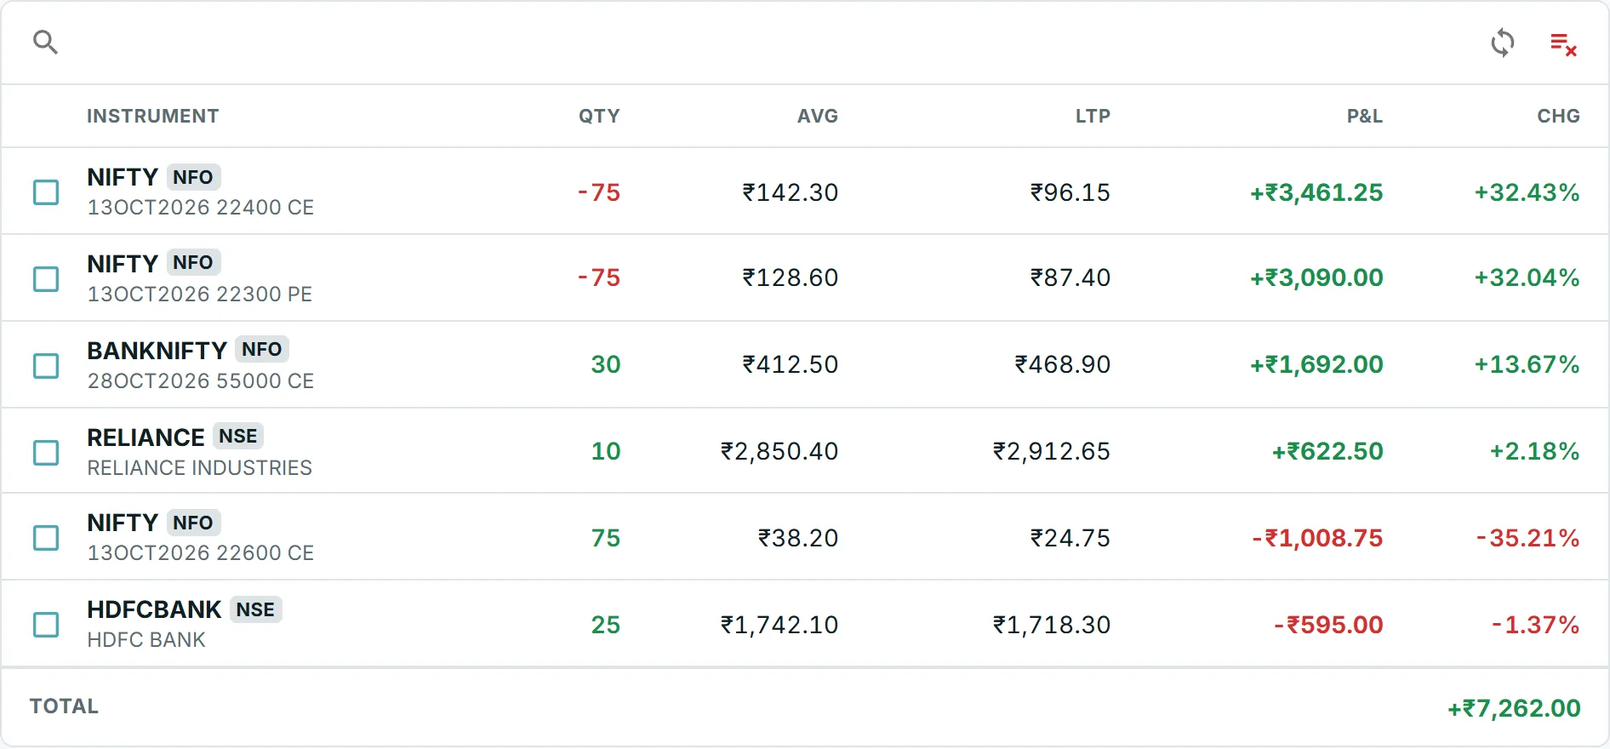
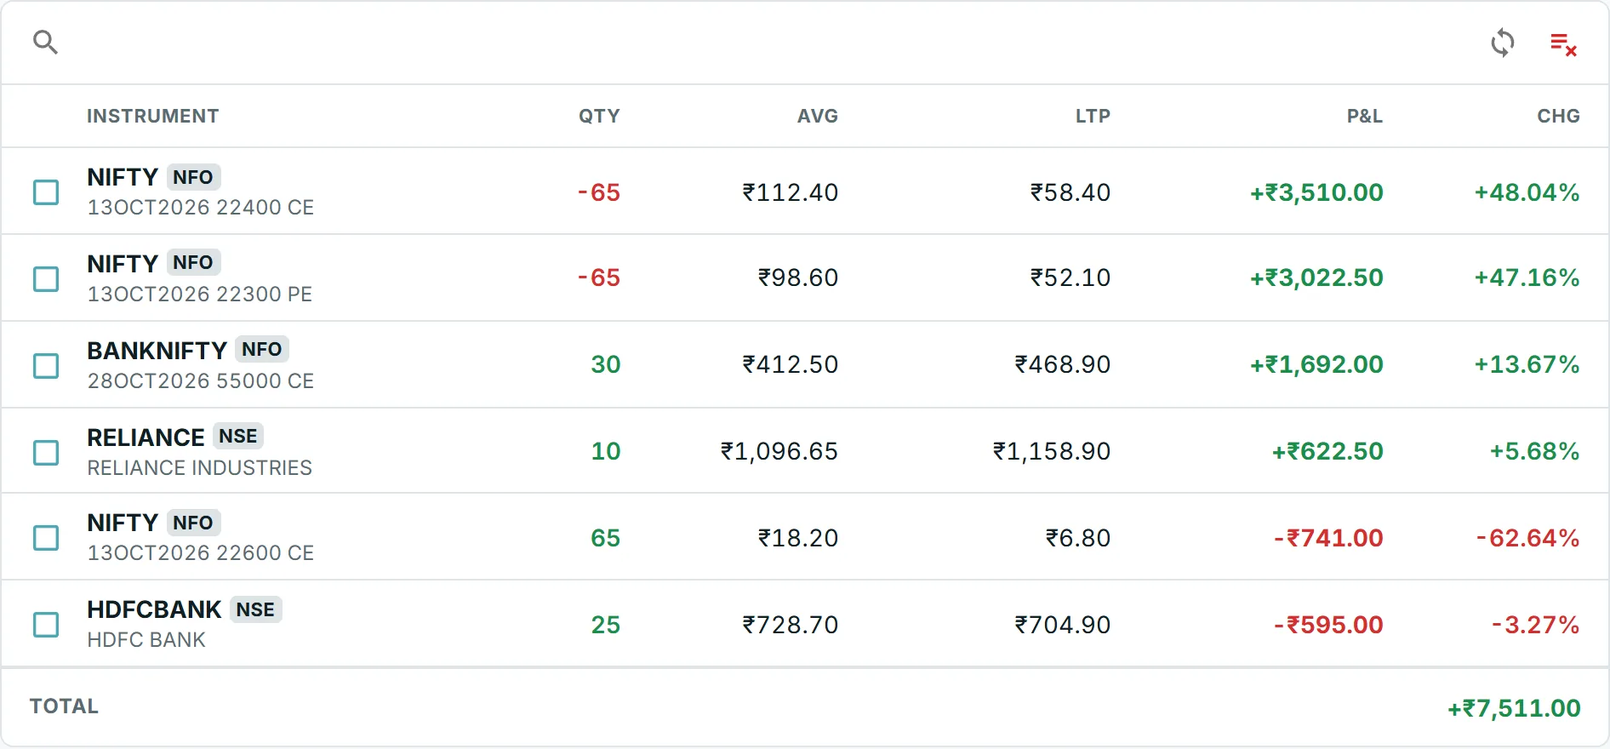
Performance pass for low-end mobiles; fix screenshot inconsistencies
Performance:
- Responsive images (1440w + 2880w srcset), async decoding, lazy loading
  for everything below the hero; desktop-only frames never load on phones
- Pulse ring and tab progress animate transform/opacity instead of
  box-shadow/width; marquee pauses off-screen; no nav backdrop blur on
  phones/tablets; hero tilt writes only when its value changes
- YouTube thumbnails fetched only near the videos section; trim unused
  font weights; lightbox reuses the already-loaded image size

Screenshot audit fixes:
- Positions use NIFTY lots of 65 and prices consistent with the watchlist
  and option chain (total +7,511)
- Terminal history strikes near the money; option chain day change -0.70%
- Strategy renamed to match its NIFTY instrument; report badge green
- P&L statement prices rescaled to current levels (same qty and P&L);
  info banners hidden on P&L pages
- Internal developer note removed from trending OI
- Charts shown without the live watchlist next to September candles

diff --git a/index.html b/index.html
@@ -8,7 +8,7 @@
   <link rel="icon" type="image/png" href="assets/favicon.png">
   <link rel="preconnect" href="https://fonts.googleapis.com">
   <link rel="preconnect" href="https://fonts.gstatic.com" crossorigin>
-  <link href="https://fonts.googleapis.com/css2?family=IBM+Plex+Sans:wght@400;500;600&family=Schibsted+Grotesk:wght@500;600;700;800;900&display=swap" rel="stylesheet">
+  <link href="https://fonts.googleapis.com/css2?family=IBM+Plex+Sans:wght@400;500;600&family=Schibsted+Grotesk:wght@700;800&display=swap" rel="stylesheet">
   <style>
     :root {
       --ink: #0b2428;
@@ -95,10 +95,11 @@
 
     .pin { position: absolute; z-index: 3; display: flex; align-items: center; gap: 10px; opacity: 0; animation: fade .6s 2.1s forwards; }
     .pin + .pin { animation-delay: 2.4s; }
-    .pin i { width: 14px; height: 14px; border-radius: 50%; background: var(--mint); box-shadow: 0 0 0 6px rgba(143, 224, 210, .3); flex: none; animation: pulse 2.4s 3s infinite; }
+    .pin i { position: relative; width: 14px; height: 14px; border-radius: 50%; background: var(--mint); box-shadow: 0 0 0 6px rgba(143, 224, 210, .3); flex: none; }
+    .pin i::after { content: ''; position: absolute; inset: 0; border-radius: 50%; background: rgba(143, 224, 210, .55); animation: pulse 2.4s 3s infinite; }
     .pin span { padding: 8px 14px; border-radius: 10px; background: var(--ink); color: var(--on-ink); font-size: .9rem; line-height: 1.35; box-shadow: 0 10px 30px -10px rgba(0, 0, 0, .5); max-width: 24ch; }
     .pin span b { color: var(--mint); font-weight: 600; display: block; }
-    @keyframes pulse { 50% { box-shadow: 0 0 0 12px rgba(143, 224, 210, 0); } }
+    @keyframes pulse { to { transform: scale(2.6); opacity: 0; } }
 
     .hero-fade { height: 140px; background: linear-gradient(transparent, var(--paper)); margin-top: -140px; position: relative; z-index: 4; pointer-events: none; }
 
@@ -114,6 +115,7 @@
     .brokers { padding: 36px 0 8px; }
     .brokers p { text-align: center; color: var(--text-soft); font-weight: 500; }
     .marquee { margin-top: 18px; overflow: hidden; mask-image: linear-gradient(90deg, transparent, #000 12%, #000 88%, transparent); }
+    .marquee.off ul { animation-play-state: paused; }
     .marquee ul { display: flex; gap: clamp(40px, 5vw, 80px); width: max-content; list-style: none; margin: 0; padding: 0 36px; animation: slide 36s linear infinite; }
     .marquee li { display: flex; align-items: center; gap: 14px; font: 700 clamp(1.25rem, 1.8vw, 1.7rem)/1 var(--display); letter-spacing: -0.02em; color: var(--text); white-space: nowrap; }
     .marquee li img { width: clamp(36px, 3vw, 46px); height: auto; object-fit: contain; }
@@ -156,11 +158,11 @@
     .tab { all: unset; cursor: pointer; padding: 18px 4px 0; position: relative; }
     .tab::before, .tab::after { content: ''; position: absolute; left: 0; top: 0; height: 3px; border-radius: 3px; }
     .tab::before { right: 0; background: var(--line); }
-    .tab::after { width: 0; background: var(--teal); }
+    .tab::after { right: 0; background: var(--teal); transform: scaleX(0); transform-origin: left; }
     .tab[aria-selected="true"]::after { animation: progress 7s linear forwards; }
     .tabs.paused .tab[aria-selected="true"]::after { animation-play-state: paused; }
-    .tabs.manual .tab[aria-selected="true"]::after { animation: none; width: 100%; }
-    @keyframes progress { to { width: 100%; } }
+    .tabs.manual .tab[aria-selected="true"]::after { animation: none; transform: none; }
+    @keyframes progress { to { transform: scaleX(1); } }
     .tab strong { display: block; font: 700 clamp(1.05rem, 1.4vw, 1.35rem) var(--display); color: var(--text-soft); transition: color .2s; }
     .tab small { display: block; color: var(--text-soft); font-size: .9rem; margin-top: 2px; }
     .tab[aria-selected="true"] strong, .tab:hover strong { color: var(--text); }
@@ -268,6 +270,9 @@
       .foot .about { grid-column: 1 / -1; }
     }
     @media (max-width: 900px) {
+      .nav.dark, .nav.solid { backdrop-filter: none; }
+      .nav.dark { background: rgba(11, 36, 40, .97); }
+      .nav.solid { background: rgba(243, 246, 245, .98); }
       .nav-toggle { display: block; }
       .nav-links { display: none; position: absolute; top: 72px; left: 0; right: 0; flex-direction: column; gap: 0; background: var(--paper); color: var(--text); border-bottom: 1px solid var(--line); padding: 8px var(--gutter) 16px; }
       .nav-links a { padding: 12px 0; }
@@ -332,7 +337,7 @@
           <div class="stage-main">
             <figure class="shot">
               <figcaption>Studio · Strategy canvas</figcaption>
-              <button type="button" class="zoom"><img src="assets/screens/strategy-canvas.webp" width="2880" height="1800" fetchpriority="high" alt="Strategy canvas showing a NIFTY short straddle: sell ATM call and put, then exit on whichever comes first of a 15:20 time stop, a ₹4,000 loss stop or a ₹3,000 profit target."></button>
+              <button type="button" class="zoom"><img src="assets/screens/strategy-canvas.webp" srcset="assets/screens/strategy-canvas-1440.webp 1440w, assets/screens/strategy-canvas.webp 2880w" sizes="(max-width: 860px) 100vw, 84vw" decoding="async" width="2880" height="1800" fetchpriority="high" alt="Strategy canvas showing a NIFTY short straddle: sell ATM call and put, then exit on whichever comes first of a 15:20 time stop, a ₹4,000 loss stop or a ₹3,000 profit target."></button>
             </figure>
             <div class="pin" style="left: 46%; top: 27%;"><i></i><span><b>Entry</b>Sell the ATM call and put</span></div>
             <div class="pin" style="left: 72%; top: 58%;"><i></i><span><b>Exit</b>Whichever hits first: time, loss or profit</span></div>
@@ -340,11 +345,11 @@
 
           <figure class="float float-pos">
             <figcaption>Positions</figcaption>
-            <img src="assets/screens/crop-positions.webp" width="1892" height="880" alt="Six open positions totalling +₹7,262.">
+            <img src="assets/screens/crop-positions.webp" srcset="assets/screens/crop-positions-half.webp 946w, assets/screens/crop-positions.webp 1892w" sizes="(max-width: 860px) 1px, 34vw" decoding="async" loading="lazy" width="1892" height="880" alt="Six open positions totalling +₹7,511.">
           </figure>
           <figure class="float float-pnl">
             <figcaption>P&amp;L heatmap</figcaption>
-            <img src="assets/screens/crop-pnl.webp" width="2320" height="1060" alt="P&L summary with YTD P&L, best day, worst day and win rate, above a calendar of daily results.">
+            <img src="assets/screens/crop-pnl.webp" srcset="assets/screens/crop-pnl-half.webp 1160w, assets/screens/crop-pnl.webp 2320w" sizes="(max-width: 860px) 1px, 34vw" decoding="async" loading="lazy" width="2320" height="1060" alt="P&L summary with YTD P&L, best day, worst day and win rate, above a calendar of daily results.">
           </figure>
         </div>
       </div>
@@ -374,64 +379,64 @@
               <span class="chap"><b>1</b>Build</span>
               <h3>Draw the rules, not the code.</h3>
               <p>Lay out entries, exits and stops as blocks on a canvas. Combine conditions with AND, OR, ANY and IF branches, and attach actions to buy, sell, modify, square off or alert you.</p>
-              <figure class="shot beat-shot"><figcaption>Studio · Strategy canvas</figcaption><button type="button" class="zoom"><img src="assets/screens/strategy-canvas.webp" width="2880" height="1800" loading="lazy" alt="Strategy canvas with entry, exit and stop blocks."></button></figure>
+              <figure class="shot beat-shot"><figcaption>Studio · Strategy canvas</figcaption><button type="button" class="zoom"><img src="assets/screens/strategy-canvas.webp" srcset="assets/screens/strategy-canvas-1440.webp 1440w, assets/screens/strategy-canvas.webp 2880w" sizes="(max-width: 1080px) 100vw, 62vw" decoding="async" width="2880" height="1800" loading="lazy" alt="Strategy canvas with entry, exit and stop blocks."></button></figure>
             </article>
             <article class="beat" data-frame="1" data-chap="0">
               <span class="chap"><b>1</b>Build</span>
               <h3>Keep every idea, and every version.</h3>
               <p>Your strategy library holds drafts and finished work side by side. Each save is versioned, so you can compare and roll back.</p>
               <p class="note">When a strategy is ready, deploy it and DheQuest runs it live through your connected broker.</p>
-              <figure class="shot beat-shot"><figcaption>Studio · Strategies</figcaption><button type="button" class="zoom"><img src="assets/screens/strategies.webp" width="2880" height="1800" loading="lazy" alt="Strategy library listing five strategies."></button></figure>
+              <figure class="shot beat-shot"><figcaption>Studio · Strategies</figcaption><button type="button" class="zoom"><img src="assets/screens/strategies.webp" srcset="assets/screens/strategies-1440.webp 1440w, assets/screens/strategies.webp 2880w" sizes="(max-width: 1080px) 100vw, 62vw" decoding="async" width="2880" height="1800" loading="lazy" alt="Strategy library listing five strategies."></button></figure>
             </article>
             <article class="beat" data-frame="2" data-chap="1">
               <span class="chap"><b>2</b>Test</span>
               <h3>Replay any past session, bar by bar.</h3>
               <p>The time-travel simulator puts you back on a historical day with the chain and OI as they were, so you can practise the trade before the money is real.</p>
-              <figure class="shot beat-shot"><figcaption>Studio · Time-travel simulator</figcaption><button type="button" class="zoom"><img src="assets/screens/simulator.webp" width="2880" height="1800" loading="lazy" alt="Time-travel simulator replaying NIFTY on 17 Aug 2026 at 12:16, with OI by strike and the option chain."></button></figure>
+              <figure class="shot beat-shot"><figcaption>Studio · Time-travel simulator</figcaption><button type="button" class="zoom"><img src="assets/screens/simulator.webp" srcset="assets/screens/simulator-1440.webp 1440w, assets/screens/simulator.webp 2880w" sizes="(max-width: 1080px) 100vw, 62vw" decoding="async" width="2880" height="1800" loading="lazy" alt="Time-travel simulator replaying NIFTY on 17 Aug 2026 at 12:16, with OI by strike and the option chain."></button></figure>
             </article>
             <article class="beat" data-frame="3" data-chap="1">
               <span class="chap"><b>2</b>Test</span>
               <h3>Backtest across months in one run.</h3>
               <p>Every backtest becomes a report with entries, win rate and net P&amp;L, so you can compare versions of an idea on evidence.</p>
-              <figure class="shot beat-shot"><figcaption>Studio · Simulation reports</figcaption><button type="button" class="zoom"><img src="assets/screens/reports.webp" width="2880" height="1800" loading="lazy" alt="Simulation reports summary with simulated P&L and win rate."></button></figure>
+              <figure class="shot beat-shot"><figcaption>Studio · Simulation reports</figcaption><button type="button" class="zoom"><img src="assets/screens/reports.webp" srcset="assets/screens/reports-1440.webp 1440w, assets/screens/reports.webp 2880w" sizes="(max-width: 1080px) 100vw, 62vw" decoding="async" width="2880" height="1800" loading="lazy" alt="Simulation reports summary with simulated P&L and win rate."></button></figure>
             </article>
             <article class="beat" data-frame="4" data-chap="2">
               <span class="chap"><b>3</b>Trade</span>
               <h3>Start from a shape.</h3>
               <p>Pick a bullish, bearish or neutral structure and it's priced instantly from the live chain. Straddles, strangles, condors, butterflies and more.</p>
-              <figure class="shot beat-shot"><figcaption>Trade · Add strategy</figcaption><button type="button" class="zoom"><img src="assets/screens/terminal-strategy-picker.webp" width="2880" height="1800" loading="lazy" alt="Strategy picker with neutral shapes."></button></figure>
+              <figure class="shot beat-shot"><figcaption>Trade · Add strategy</figcaption><button type="button" class="zoom"><img src="assets/screens/terminal-strategy-picker.webp" srcset="assets/screens/terminal-strategy-picker-1440.webp 1440w, assets/screens/terminal-strategy-picker.webp 2880w" sizes="(max-width: 1080px) 100vw, 62vw" decoding="async" width="2880" height="1800" loading="lazy" alt="Strategy picker with neutral shapes."></button></figure>
             </article>
             <article class="beat" data-frame="5" data-chap="2">
               <span class="chap"><b>3</b>Trade</span>
               <h3>See the payoff before you place it.</h3>
               <p>Max profit, max loss, breakevens and probability of profit update as you change strikes, so there are no surprises at expiry.</p>
-              <figure class="shot beat-shot"><figcaption>Trade · Options terminal</figcaption><button type="button" class="zoom"><img src="assets/screens/terminal-payoff.webp" width="2880" height="1800" loading="lazy" alt="Options terminal with a short iron condor payoff graph over put and call open interest."></button></figure>
+              <figure class="shot beat-shot"><figcaption>Trade · Options terminal</figcaption><button type="button" class="zoom"><img src="assets/screens/terminal-payoff.webp" srcset="assets/screens/terminal-payoff-1440.webp 1440w, assets/screens/terminal-payoff.webp 2880w" sizes="(max-width: 1080px) 100vw, 62vw" decoding="async" width="2880" height="1800" loading="lazy" alt="Options terminal with a short iron condor payoff graph over put and call open interest."></button></figure>
             </article>
             <article class="beat" data-frame="6" data-chap="2">
               <span class="chap"><b>3</b>Trade</span>
               <h3>Fire a whole basket at once.</h3>
               <p>Save groups of orders as baskets and place them together, for yourself or for your team.</p>
-              <figure class="shot beat-shot"><figcaption>Trade · Baskets</figcaption><button type="button" class="zoom"><img src="assets/screens/baskets.webp" width="2880" height="1800" loading="lazy" alt="Baskets list of saved order groups."></button></figure>
+              <figure class="shot beat-shot"><figcaption>Trade · Baskets</figcaption><button type="button" class="zoom"><img src="assets/screens/baskets.webp" srcset="assets/screens/baskets-1440.webp 1440w, assets/screens/baskets.webp 2880w" sizes="(max-width: 1080px) 100vw, 62vw" decoding="async" width="2880" height="1800" loading="lazy" alt="Baskets list of saved order groups."></button></figure>
             </article>
             <article class="beat" data-frame="7" data-chap="2">
               <span class="chap"><b>3</b>Trade</span>
               <h3>Every position, one screen.</h3>
               <p>Live P&amp;L across every account you trade, with one-click square off when it's time to get out.</p>
-              <figure class="shot beat-shot"><figcaption>Trade · Positions</figcaption><button type="button" class="zoom"><img src="assets/screens/positions.webp" width="2880" height="1800" loading="lazy" alt="Positions table with six open positions totalling +₹7,262."></button></figure>
+              <figure class="shot beat-shot"><figcaption>Trade · Positions</figcaption><button type="button" class="zoom"><img src="assets/screens/positions.webp" srcset="assets/screens/positions-1440.webp 1440w, assets/screens/positions.webp 2880w" sizes="(max-width: 1080px) 100vw, 62vw" decoding="async" width="2880" height="1800" loading="lazy" alt="Positions table with six open positions totalling +₹7,511."></button></figure>
             </article>
           </div>
 
           <div class="screen" aria-hidden="true">
             <div class="chapters"><span class="on" style="--fill: 50%">1 · Build</span><span>2 · Test</span><span>3 · Trade</span></div>
             <div class="frames">
-              <figure class="shot on"><figcaption>Studio · Strategy canvas</figcaption><button type="button" class="zoom" tabindex="-1"><img src="assets/screens/strategy-canvas.webp" width="2880" height="1800" alt=""></button></figure>
-              <figure class="shot"><figcaption>Studio · Strategies</figcaption><button type="button" class="zoom" tabindex="-1"><img src="assets/screens/strategies.webp" width="2880" height="1800" alt=""></button></figure>
-              <figure class="shot"><figcaption>Studio · Time-travel simulator</figcaption><button type="button" class="zoom" tabindex="-1"><img src="assets/screens/simulator.webp" width="2880" height="1800" alt=""></button></figure>
-              <figure class="shot"><figcaption>Studio · Simulation reports</figcaption><button type="button" class="zoom" tabindex="-1"><img src="assets/screens/reports.webp" width="2880" height="1800" alt=""></button></figure>
-              <figure class="shot"><figcaption>Trade · Add strategy</figcaption><button type="button" class="zoom" tabindex="-1"><img src="assets/screens/terminal-strategy-picker.webp" width="2880" height="1800" alt=""></button></figure>
-              <figure class="shot"><figcaption>Trade · Options terminal</figcaption><button type="button" class="zoom" tabindex="-1"><img src="assets/screens/terminal-payoff.webp" width="2880" height="1800" alt=""></button></figure>
-              <figure class="shot"><figcaption>Trade · Baskets</figcaption><button type="button" class="zoom" tabindex="-1"><img src="assets/screens/baskets.webp" width="2880" height="1800" alt=""></button></figure>
-              <figure class="shot"><figcaption>Trade · Positions</figcaption><button type="button" class="zoom" tabindex="-1"><img src="assets/screens/positions.webp" width="2880" height="1800" alt=""></button></figure>
+              <figure class="shot on"><figcaption>Studio · Strategy canvas</figcaption><button type="button" class="zoom" tabindex="-1"><img src="assets/screens/strategy-canvas.webp" srcset="assets/screens/strategy-canvas-1440.webp 1440w, assets/screens/strategy-canvas.webp 2880w" sizes="(max-width: 1080px) 100vw, 62vw" decoding="async" loading="lazy" width="2880" height="1800" alt=""></button></figure>
+              <figure class="shot"><figcaption>Studio · Strategies</figcaption><button type="button" class="zoom" tabindex="-1"><img src="assets/screens/strategies.webp" srcset="assets/screens/strategies-1440.webp 1440w, assets/screens/strategies.webp 2880w" sizes="(max-width: 1080px) 100vw, 62vw" decoding="async" loading="lazy" width="2880" height="1800" alt=""></button></figure>
+              <figure class="shot"><figcaption>Studio · Time-travel simulator</figcaption><button type="button" class="zoom" tabindex="-1"><img src="assets/screens/simulator.webp" srcset="assets/screens/simulator-1440.webp 1440w, assets/screens/simulator.webp 2880w" sizes="(max-width: 1080px) 100vw, 62vw" decoding="async" loading="lazy" width="2880" height="1800" alt=""></button></figure>
+              <figure class="shot"><figcaption>Studio · Simulation reports</figcaption><button type="button" class="zoom" tabindex="-1"><img src="assets/screens/reports.webp" srcset="assets/screens/reports-1440.webp 1440w, assets/screens/reports.webp 2880w" sizes="(max-width: 1080px) 100vw, 62vw" decoding="async" loading="lazy" width="2880" height="1800" alt=""></button></figure>
+              <figure class="shot"><figcaption>Trade · Add strategy</figcaption><button type="button" class="zoom" tabindex="-1"><img src="assets/screens/terminal-strategy-picker.webp" srcset="assets/screens/terminal-strategy-picker-1440.webp 1440w, assets/screens/terminal-strategy-picker.webp 2880w" sizes="(max-width: 1080px) 100vw, 62vw" decoding="async" loading="lazy" width="2880" height="1800" alt=""></button></figure>
+              <figure class="shot"><figcaption>Trade · Options terminal</figcaption><button type="button" class="zoom" tabindex="-1"><img src="assets/screens/terminal-payoff.webp" srcset="assets/screens/terminal-payoff-1440.webp 1440w, assets/screens/terminal-payoff.webp 2880w" sizes="(max-width: 1080px) 100vw, 62vw" decoding="async" loading="lazy" width="2880" height="1800" alt=""></button></figure>
+              <figure class="shot"><figcaption>Trade · Baskets</figcaption><button type="button" class="zoom" tabindex="-1"><img src="assets/screens/baskets.webp" srcset="assets/screens/baskets-1440.webp 1440w, assets/screens/baskets.webp 2880w" sizes="(max-width: 1080px) 100vw, 62vw" decoding="async" loading="lazy" width="2880" height="1800" alt=""></button></figure>
+              <figure class="shot"><figcaption>Trade · Positions</figcaption><button type="button" class="zoom" tabindex="-1"><img src="assets/screens/positions.webp" srcset="assets/screens/positions-1440.webp 1440w, assets/screens/positions.webp 2880w" sizes="(max-width: 1080px) 100vw, 62vw" decoding="async" loading="lazy" width="2880" height="1800" alt=""></button></figure>
             </div>
           </div>
         </div>
@@ -454,30 +459,30 @@
         </div>
 
         <div class="panel" role="tabpanel" id="p-oc" aria-labelledby="t-oc">
-          <figure class="shot"><figcaption>Studio · Option chain</figcaption><button type="button" class="zoom"><img src="assets/screens/option-chain.webp" width="2880" height="1800" loading="lazy" alt="NIFTY option chain with OI, change in OI, volume, IV, delta and LTP for calls and puts around the spot price, with PCR and max pain."></button></figure>
+          <figure class="shot"><figcaption>Studio · Option chain</figcaption><button type="button" class="zoom"><img src="assets/screens/option-chain.webp" srcset="assets/screens/option-chain-1440.webp 1440w, assets/screens/option-chain.webp 2880w" sizes="(max-width: 1080px) 100vw, 62vw" decoding="async" width="2880" height="1800" loading="lazy" alt="NIFTY option chain with OI, change in OI, volume, IV, delta and LTP for calls and puts around the spot price, with PCR and max pain."></button></figure>
           <div><h3>The whole chain, at a glance.</h3><p>OI, change in OI, volume, IV and delta for calls and puts, with in-the-money strikes shaded and PCR and max pain on top.</p></div>
         </div>
         <div class="panel" role="tabpanel" id="p-oi" aria-labelledby="t-oi" hidden>
-          <figure class="shot"><figcaption>Studio · Open interest</figcaption><button type="button" class="zoom"><img src="assets/screens/open-interest.webp" width="2880" height="1800" loading="lazy" alt="NIFTY open interest by strike, showing call and put OI with additions and unwinding."></button></figure>
+          <figure class="shot"><figcaption>Studio · Open interest</figcaption><button type="button" class="zoom"><img src="assets/screens/open-interest.webp" srcset="assets/screens/open-interest-1440.webp 1440w, assets/screens/open-interest.webp 2880w" sizes="(max-width: 1080px) 100vw, 62vw" decoding="async" width="2880" height="1800" loading="lazy" alt="NIFTY open interest by strike, showing call and put OI with additions and unwinding."></button></figure>
           <div><h3>Where the walls are.</h3><p>Call and put OI by strike, with additions and unwinding marked, so support and resistance are visible before the move.</p></div>
         </div>
         <div class="panel" role="tabpanel" id="p-toi" aria-labelledby="t-toi" hidden>
-          <figure class="shot"><figcaption>Studio · Trending OI</figcaption><button type="button" class="zoom"><img src="assets/screens/trending-oi.webp" width="2880" height="1800" loading="lazy" alt="Trending OI table with PCR, OI change and an interpretation for each interval."></button></figure>
+          <figure class="shot"><figcaption>Studio · Trending OI</figcaption><button type="button" class="zoom"><img src="assets/screens/trending-oi.webp" srcset="assets/screens/trending-oi-1440.webp 1440w, assets/screens/trending-oi.webp 2880w" sizes="(max-width: 1080px) 100vw, 62vw" decoding="async" width="2880" height="1800" loading="lazy" alt="Trending OI table with PCR, OI change and an interpretation for each interval."></button></figure>
           <div><h3>Who's in control, interval by interval.</h3><p>Each snapshot is read as long build-up, short covering, long unwinding or short build-up, with PCR alongside.</p></div>
         </div>
         <div class="panel" role="tabpanel" id="p-th" aria-labelledby="t-th" hidden>
-          <figure class="shot"><figcaption>Studio · Thesis · Seasonal movement</figcaption><button type="button" class="zoom"><img src="assets/screens/thesis-seasonal.webp" width="2880" height="1800" loading="lazy" alt="NIFTY monthly returns heatmap from 2015 to 2026, colour-coded from strong gain to strong loss."></button></figure>
+          <figure class="shot"><figcaption>Studio · Thesis · Seasonal movement</figcaption><button type="button" class="zoom"><img src="assets/screens/thesis-seasonal.webp" srcset="assets/screens/thesis-seasonal-1440.webp 1440w, assets/screens/thesis-seasonal.webp 2880w" sizes="(max-width: 1080px) 100vw, 62vw" decoding="async" width="2880" height="1800" loading="lazy" alt="NIFTY monthly returns heatmap from 2015 to 2026, colour-coded from strong gain to strong loss."></button></figure>
           <div>
             <h3>How far does it usually move?</h3><p>Daily ranges, expiry-to-expiry moves and seasonal patterns across 11 years of NIFTY sessions, answered from history rather than gut feel.</p>
             <div class="minis">
-              <figure class="shot"><figcaption>Daily movement</figcaption><button type="button" class="zoom"><img src="assets/screens/thesis-daily.webp" width="2880" height="1800" loading="lazy" alt="NIFTY daily movement study: open-to-close, intraday range and opening gap distributions across 2,894 sessions."></button></figure>
-              <figure class="shot"><figcaption>Expiry movement</figcaption><button type="button" class="zoom"><img src="assets/screens/thesis-expiry.webp" width="2880" height="1800" loading="lazy" alt="NIFTY expiry-to-expiry move distribution with longest up and down streaks and a percentile breakdown."></button></figure>
+              <figure class="shot"><figcaption>Daily movement</figcaption><button type="button" class="zoom"><img src="assets/screens/thesis-daily.webp" srcset="assets/screens/thesis-daily-1440.webp 1440w, assets/screens/thesis-daily.webp 2880w" sizes="(max-width: 1080px) 50vw, 16vw" decoding="async" width="2880" height="1800" loading="lazy" alt="NIFTY daily movement study: open-to-close, intraday range and opening gap distributions across 2,894 sessions."></button></figure>
+              <figure class="shot"><figcaption>Expiry movement</figcaption><button type="button" class="zoom"><img src="assets/screens/thesis-expiry.webp" srcset="assets/screens/thesis-expiry-1440.webp 1440w, assets/screens/thesis-expiry.webp 2880w" sizes="(max-width: 1080px) 50vw, 16vw" decoding="async" width="2880" height="1800" loading="lazy" alt="NIFTY expiry-to-expiry move distribution with longest up and down streaks and a percentile breakdown."></button></figure>
             </div>
           </div>
         </div>
         <div class="panel" role="tabpanel" id="p-ch" aria-labelledby="t-ch" hidden>
-          <figure class="shot"><figcaption>Trade · Charts</figcaption><button type="button" class="zoom"><img src="assets/screens/charts.webp" width="2880" height="1800" loading="lazy" alt="NIFTY daily candlestick chart with S/R zones, swing levels and arcs, plus OHLCV and arc impulse details."></button></figure>
-          <div><h3>Charts that read the structure.</h3><p>Support and resistance zones, swing levels and arcs drawn for you, with your watchlist alongside and layouts saved for next time.</p></div>
+          <figure class="shot"><figcaption>Trade · Charts</figcaption><button type="button" class="zoom"><img src="assets/screens/charts.webp" srcset="assets/screens/charts-1440.webp 1440w, assets/screens/charts.webp 2880w" sizes="(max-width: 1080px) 100vw, 62vw" decoding="async" width="2880" height="1800" loading="lazy" alt="NIFTY daily candlestick chart with S/R zones, swing levels and arcs drawn on it."></button></figure>
+          <div><h3>Charts that read the structure.</h3><p>Support and resistance zones, swing levels and arcs drawn for you, with layouts saved for next time.</p></div>
         </div>
       </div>
     </section>
@@ -490,16 +495,16 @@
         </div>
         <div class="review">
           <figure>
-            <div class="shot"><figcaption>Account · P&amp;L heatmap</figcaption><button type="button" class="zoom"><img src="assets/screens/pnl-heatmap.webp" width="2880" height="1800" loading="lazy" alt="P&L heatmap calendar for July to September 2026 with green and red days, YTD P&L, best and worst day, and a 65% daily win rate."></button></div>
+            <div class="shot"><figcaption>Account · P&amp;L heatmap</figcaption><button type="button" class="zoom"><img src="assets/screens/pnl-heatmap.webp" srcset="assets/screens/pnl-heatmap-1440.webp 1440w, assets/screens/pnl-heatmap.webp 2880w" sizes="(max-width: 1080px) 100vw, 62vw" decoding="async" width="2880" height="1800" loading="lazy" alt="P&L heatmap calendar for July to September 2026 with green and red days, YTD P&L, best and worst day, and a 65% daily win rate."></button></div>
             <p class="cap"><strong>P&amp;L heatmap.</strong> Every trading day coloured by result. Click a day to see the trades behind it.</p>
           </figure>
           <div class="col">
             <figure>
-              <div class="shot"><figcaption>Trade · Journal</figcaption><button type="button" class="zoom"><img src="assets/screens/journal.webp" width="2880" height="1800" loading="lazy" alt="Trading journal dashboard with net P&L, P&L by setup and recent entries."></button></div>
+              <div class="shot"><figcaption>Trade · Journal</figcaption><button type="button" class="zoom"><img src="assets/screens/journal.webp" srcset="assets/screens/journal-1440.webp 1440w, assets/screens/journal.webp 2880w" sizes="(max-width: 1080px) 100vw, 62vw" decoding="async" width="2880" height="1800" loading="lazy" alt="Trading journal dashboard with net P&L, P&L by setup and recent entries."></button></div>
               <p class="cap"><strong>Journal.</strong> P&amp;L by setup, so you know whether breakouts or reversals pay you.</p>
             </figure>
             <figure>
-              <div class="shot"><figcaption>Account · P&amp;L statement</figcaption><button type="button" class="zoom"><img src="assets/screens/pnl-statement.webp" width="2880" height="1800" loading="lazy" alt="P&L statement listing closed trades with quantity, buy and sell averages and realised P&L."></button></div>
+              <div class="shot"><figcaption>Account · P&amp;L statement</figcaption><button type="button" class="zoom"><img src="assets/screens/pnl-statement.webp" srcset="assets/screens/pnl-statement-1440.webp 1440w, assets/screens/pnl-statement.webp 2880w" sizes="(max-width: 1080px) 100vw, 62vw" decoding="async" width="2880" height="1800" loading="lazy" alt="P&L statement listing closed trades with quantity, buy and sell averages and realised P&L."></button></div>
               <p class="cap"><strong>Statement.</strong> A clean ledger of closed trades, ready to export as CSV.</p>
             </figure>
           </div>
@@ -602,14 +607,16 @@
     nav.querySelectorAll('.nav-links a').forEach(a => a.addEventListener('click', () => { nav.classList.remove('open'); toggle.setAttribute('aria-expanded', false); }));
 
     // Hero: screenshot tilts flat and floating cards settle as you scroll
-    let ticking = false;
+    // Hero height is cached (no layout read per scroll) and --p is only written when it changes
+    let ticking = false, heroH = hero.offsetHeight, lastP = '';
+    addEventListener('resize', () => { heroH = hero.offsetHeight; }, { passive: true });
     const onScroll = () => {
       if (ticking) return; ticking = true;
       requestAnimationFrame(() => {
-        const h = hero.offsetHeight;
-        nav.classList.toggle('solid', scrollY > h - 80);
-        nav.classList.toggle('dark', scrollY > 10 && scrollY <= h - 80);
-        if (!reduce) hero.style.setProperty('--p', Math.min(1, scrollY / (h * 0.45)).toFixed(3));
+        nav.classList.toggle('solid', scrollY > heroH - 80);
+        nav.classList.toggle('dark', scrollY > 10 && scrollY <= heroH - 80);
+        const p = reduce ? '1' : Math.min(1, scrollY / (heroH * 0.45)).toFixed(3);
+        if (p !== lastP) { hero.style.setProperty('--p', p); lastP = p; }
         ticking = false;
       });
     };
@@ -656,13 +663,22 @@
     // Lightbox
     const box = document.getElementById('lightbox'), boxImg = box.querySelector('img');
     document.querySelectorAll('.zoom').forEach(b => b.addEventListener('click', () => {
-      const img = b.querySelector('img'); boxImg.src = img.src; boxImg.alt = img.alt; box.showModal();
+      const img = b.querySelector("img"); boxImg.src = img.currentSrc || img.src; boxImg.alt = img.alt; box.showModal();
     }));
     box.addEventListener('click', e => { if (e.target === box) box.close(); });
 
     // YouTube: thumbnail first, iframe only on click
+    // Thumbnails are fetched only when the videos section is about to scroll into view
+    const ytObs = new IntersectionObserver(entries => entries.forEach(e => {
+      if (!e.isIntersecting) return;
+      e.target.style.backgroundImage = `url(https://i.ytimg.com/vi/${e.target.dataset.yt}/hqdefault.jpg)`;
+      ytObs.unobserve(e.target);
+    }), { rootMargin: '600px 0px' });
+    // The broker marquee stops animating while it is off-screen
+    const marquee = document.querySelector('.marquee');
+    new IntersectionObserver(([e]) => marquee.classList.toggle('off', !e.isIntersecting)).observe(marquee);
     document.querySelectorAll('[data-yt]').forEach(b => {
-      b.style.backgroundImage = `url(https://i.ytimg.com/vi/${b.dataset.yt}/hqdefault.jpg)`;
+      ytObs.observe(b);
       b.addEventListener('click', () => {
         const f = document.createElement('iframe');
         f.src = `https://www.youtube-nocookie.com/embed/${b.dataset.yt}?autoplay=1`;
